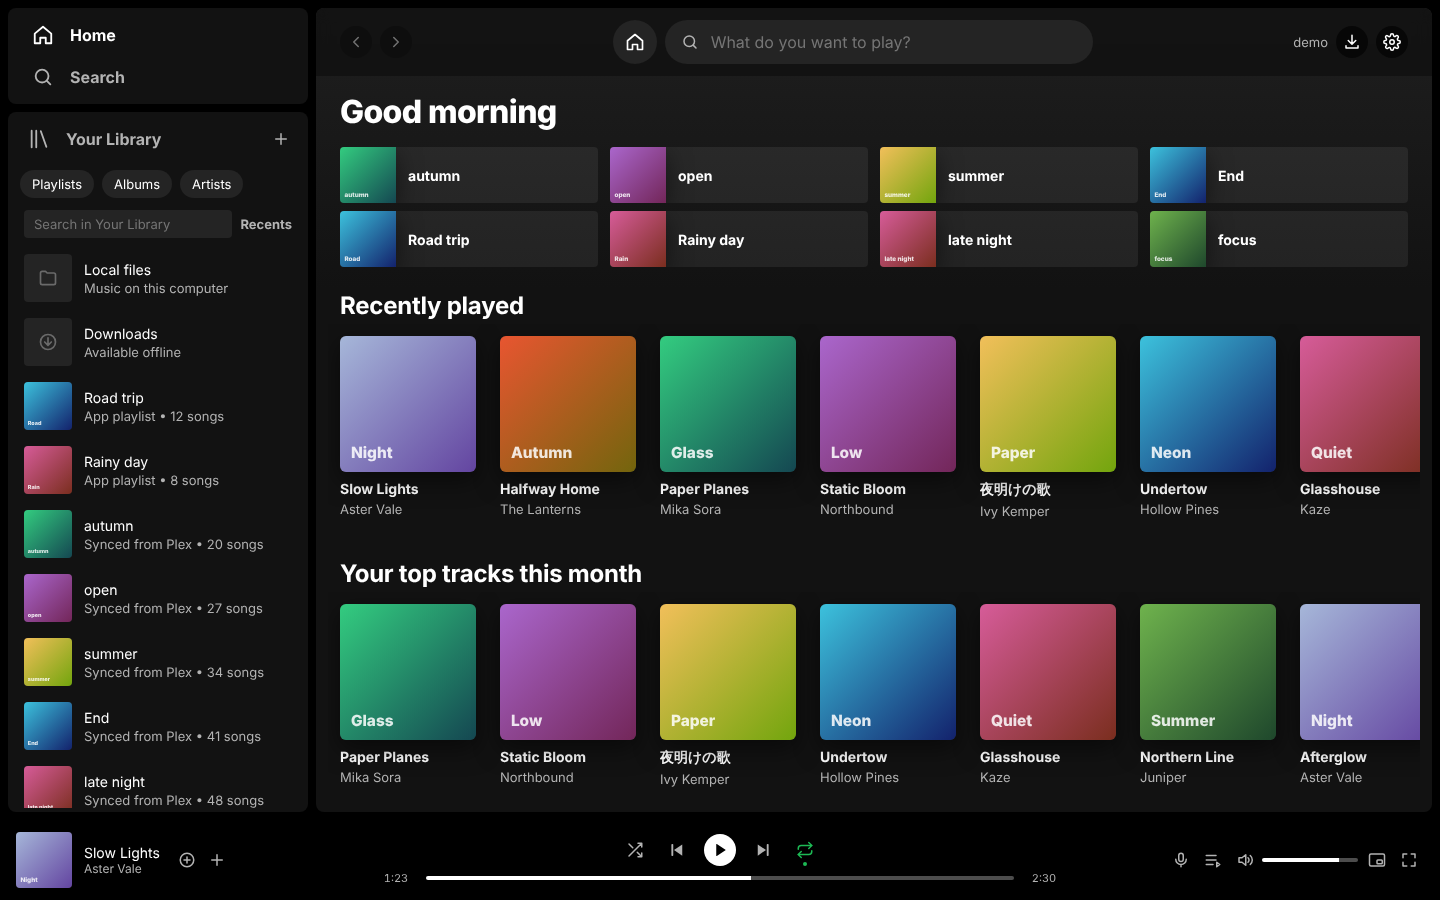
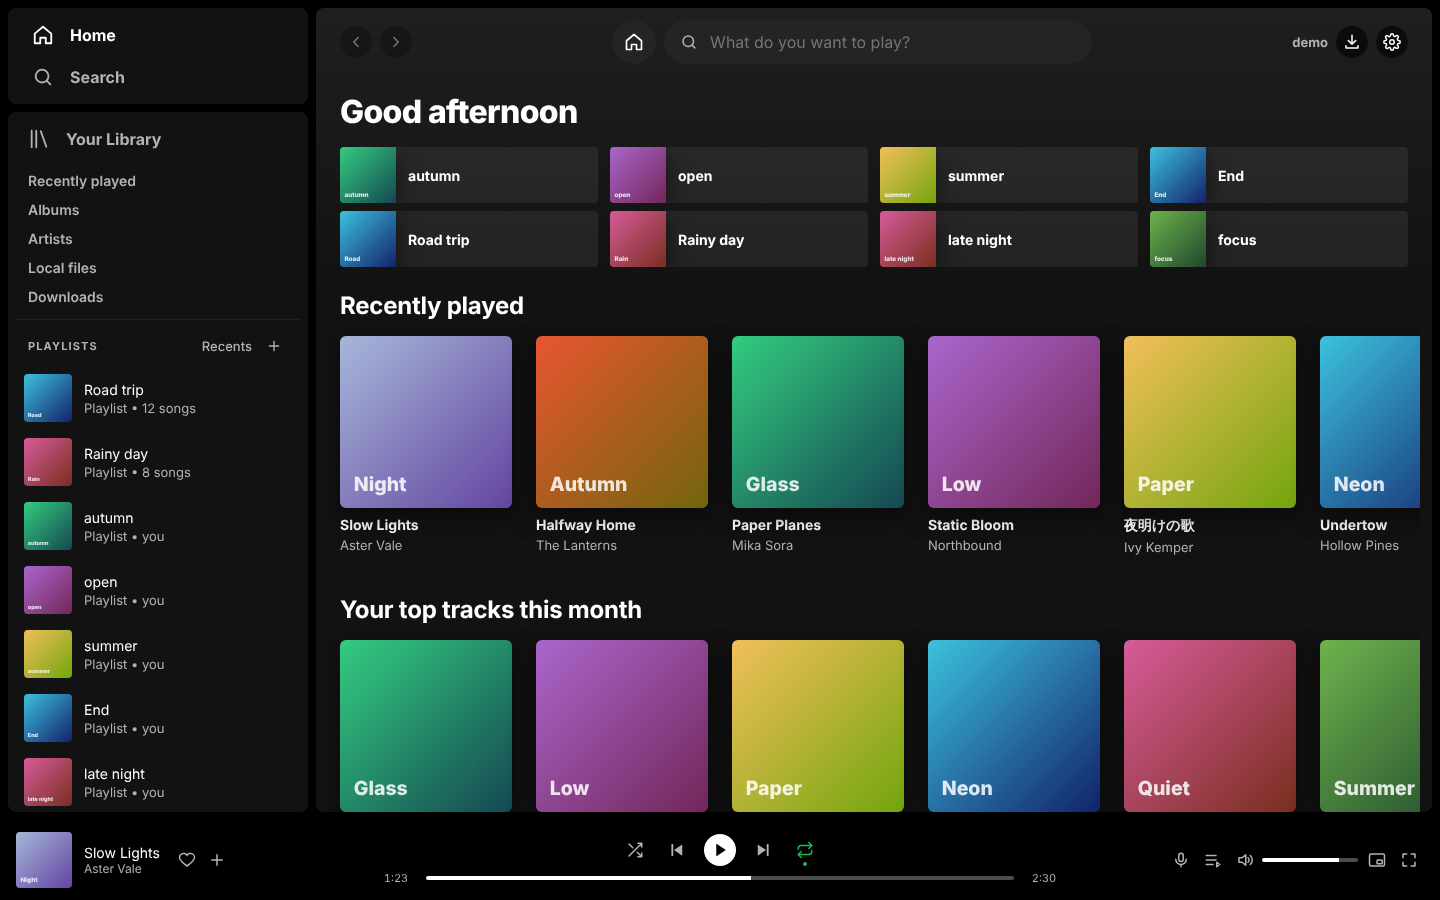
README: Windows and Android screenshots, features, download link
Claude-Session: https://claude.ai/code/session_012YFM9VBkWfKEaaza8uU8t3

diff --git a/README.md b/README.md
@@ -1,14 +1,43 @@
 # OpenMusic — YTSpot & PLEXSpot
 
-Two Spotify-style Windows desktop music clients sharing one Rust + Tauri 2 core and one React UI:
+Two Spotify-style music players for **Windows** and **Android**, sharing one Rust + Tauri 2 core and one React UI:
 
-- **YTSpot** — YouTube Music client (`apps/ytspot`)
-- **PLEXSpot** — Plex Music client (`apps/plexspot`)
+- **YTSpot**: a YouTube Music client (`apps/ytspot`)
+- **PLEXSpot**: a Plex Music client (`apps/plexspot`)
 
-Work in progress. See `TODO.md` and `docs/ARCHITECTURE.md`.
+**Download:** [latest release](https://github.com/knivesbatz/OpenMusic/releases/latest). It has the Windows installers (`*_x64-setup.exe`) and Android APKs (`*_android-arm64.apk`). The Windows apps update themselves from the latest release.
 
 ## Screenshots
 
+### Windows
+
 ![PLEXSpot home](docs/screenshots/home.png)
 
-More in [docs/screenshots](docs/screenshots/README.md) (rendered with sample data).
+| | |
+|---|---|
+| ![Your Library](docs/screenshots/library.png) Your Library: classic categories, including YTSpot podcasts | ![Artist](docs/screenshots/artist.png) Artist page |
+| ![Queue](docs/screenshots/queue.png) Queue | ![Fullscreen](docs/screenshots/fullscreen.png) Fullscreen player with synced lyrics |
+
+### Android
+
+| | | | |
+|---|---|---|---|
+| ![Home](docs/screenshots/phone-home.png) | ![Library](docs/screenshots/phone-library.png) | ![Albums](docs/screenshots/phone-albums.png) | ![Song screen](docs/screenshots/phone-player.png) |
+| Home | Your Library: Music / Podcasts | Albums | Song screen |
+
+Screenshots are rendered with sample data. More are in [docs/screenshots](docs/screenshots/README.md).
+
+## Features
+
+- Spotify-style home, search (top result, songs, artists, albums, playlists), artist pages and playlists
+- Your Library: Recently played, Albums, Artists, Podcasts and Your Episodes (YTSpot), Local files, Downloads (PLEXSpot)
+- Crossfade and gapless playback, autoplay of similar songs, and a full queue editor
+- Synced lyrics: embedded or from Plex first, then looked up online (LRCLIB, NetEase); no API keys needed
+- Custom playlist covers, local playlists and folders, local files
+- Last.fm scrobbling (off by default) and Discord Rich Presence
+- TV mode for controllers and remotes, a mini player and a tray icon on desktop
+- English and Japanese
+
+## Development
+
+See `CLAUDE.md` for commands, `TODO.md` for the backlog and `docs/ARCHITECTURE.md` for the design.

diff --git a/docs/screenshots/README.md b/docs/screenshots/README.md
@@ -4,11 +4,19 @@ Rendered from the production UI build in headless Chromium, with the mock backen
 `ui/e2e/mock-backend.js` standing in for the Rust commands. **The artists, albums, artwork and lyrics
 are sample data, not a real Plex or YouTube Music library.**
 
+## Windows (1440×900)
+
 | | |
 |---|---|
-| ![Home](home.png) Home: shortcuts, recently played, top tracks | ![Queue](queue.png) Queue with a Shift-click range selected |
+| ![Home](home.png) Home: shortcuts, recently played, top tracks | ![Your Library](library.png) Your Library categories (YTSpot, Podcasts) |
 | ![Album](album-menu.png) Album page with the track context menu | ![Artist](artist.png) Artist page |
-| ![Fullscreen](fullscreen.png) Fullscreen player with synced lyrics | |
+| ![Queue](queue.png) Queue with a Shift-click range selected | ![Fullscreen](fullscreen.png) Fullscreen player with synced lyrics |
 
-Regenerate: `cd ui && npm run build && npx vite preview --port 4173`, then
-`PLAYWRIGHT=/path/to/playwright/index.mjs CHROMIUM=/path/to/chromium node e2e/screenshots.mjs http://localhost:4173/ ../docs/screenshots e2e/mock-backend.js`.
+## Android (phone)
+
+| | | | |
+|---|---|---|---|
+| ![Home](phone-home.png) Home | ![Library](phone-library.png) Your Library: Music / Podcasts (YTSpot) | ![Albums](phone-albums.png) Albums | ![Song screen](phone-player.png) Song screen |
+
+Regenerate: `cd ui && npm run build && node e2e/screenshots.mjs ../docs/screenshots`
+(`CHROMIUM=/path/to/chromium` to use a preinstalled browser).
